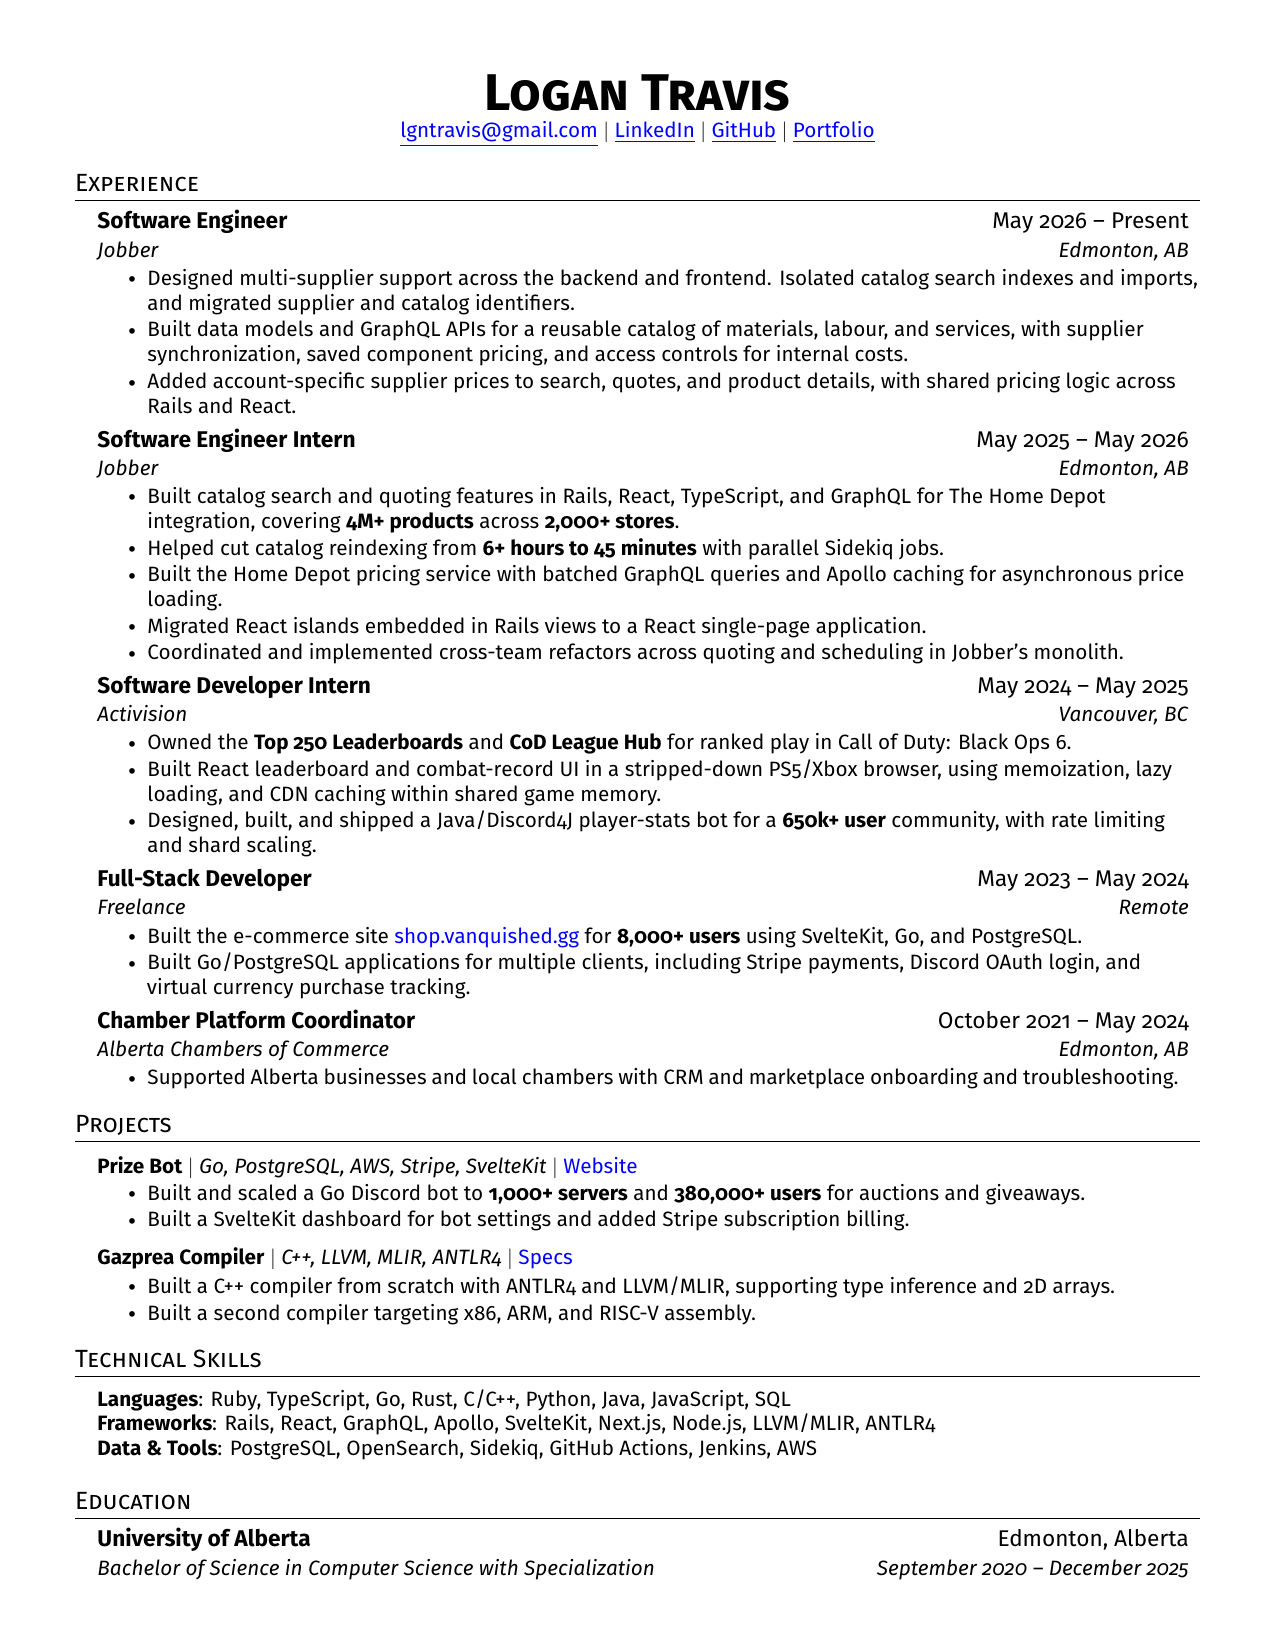
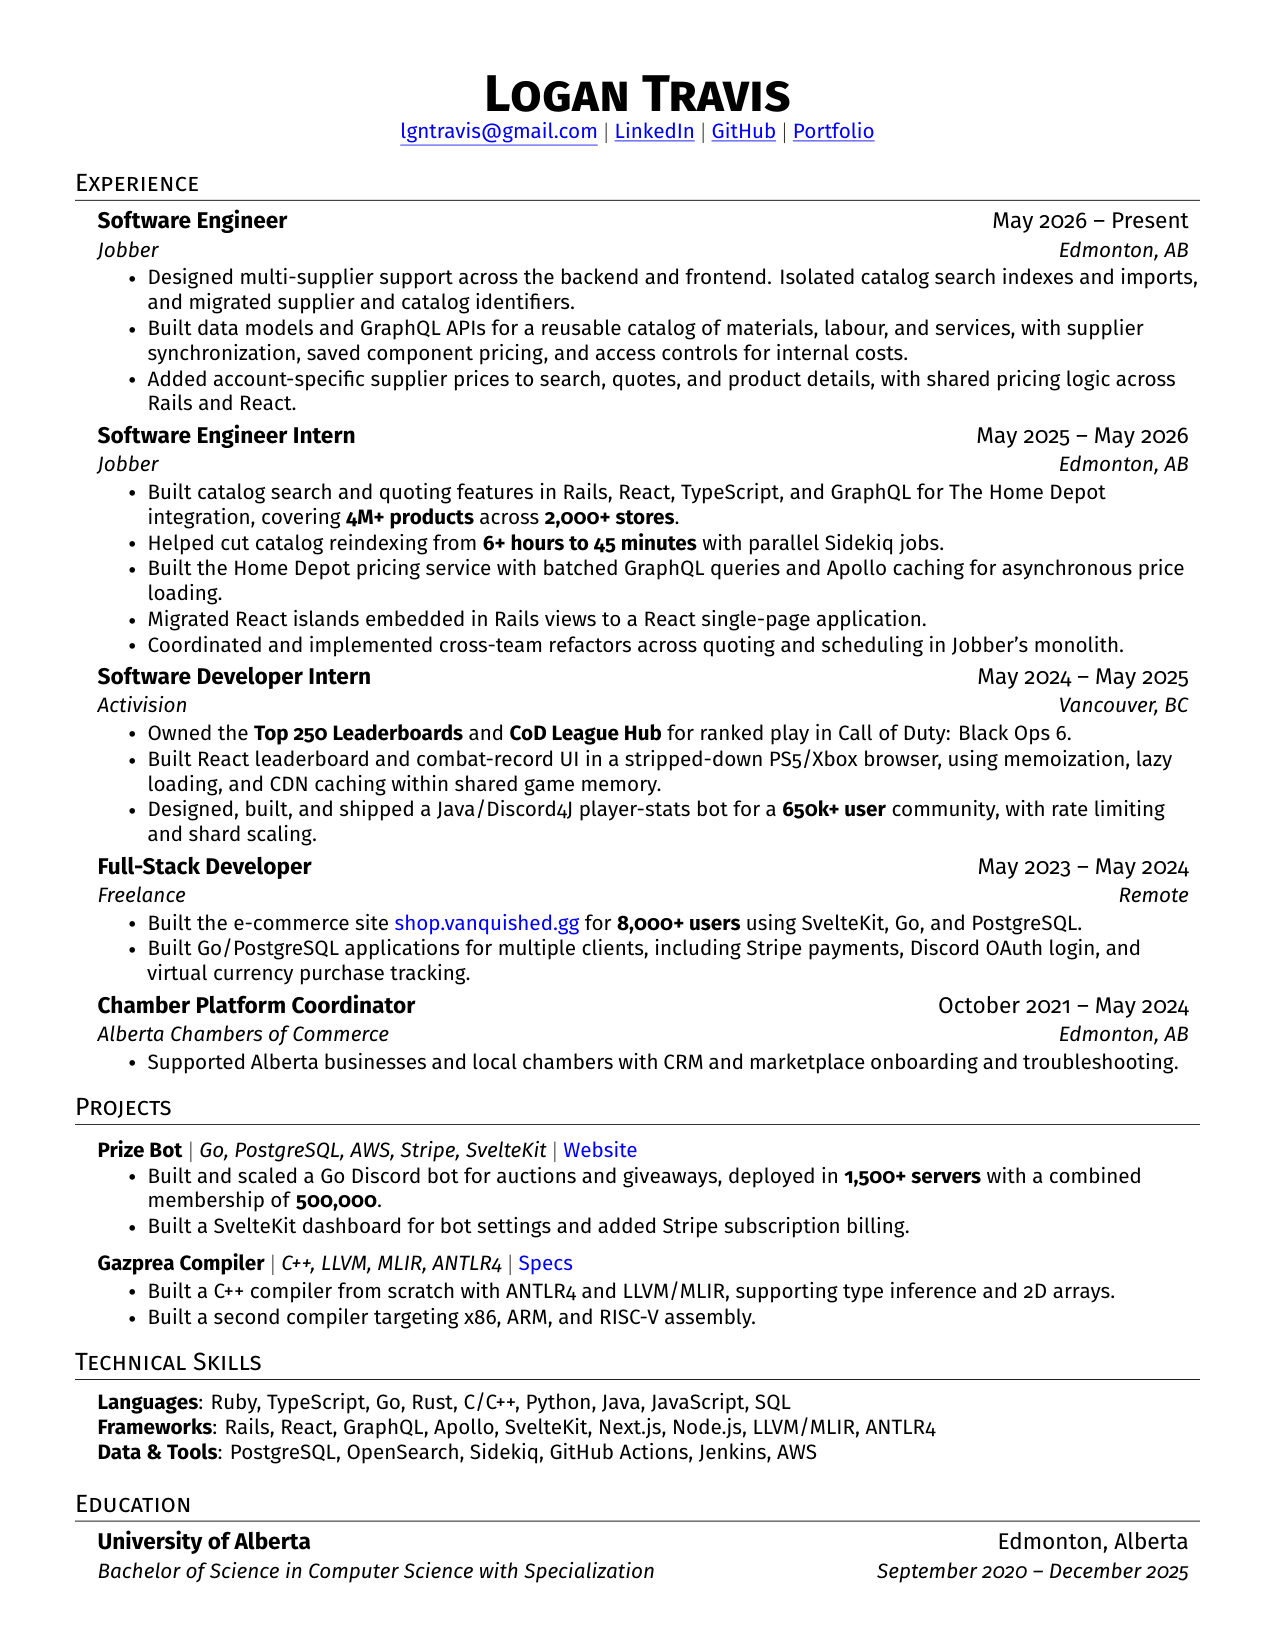
Update Prize Bot reach and clarify server membership metric

diff --git a/2-page/resume.tex b/2-page/resume.tex
@@ -230,7 +230,7 @@
 \resumeProjectHeading
 {\textbf{Prize Bot} $|$ \emph{Go, PostgreSQL, AWS, Stripe, SvelteKit} $|$ \href{https://www.prizebot.dev/}{Website}}{}
 \resumeItemListStart
-\resumeItem{Built and scaled a Go Discord bot to \textbf{1,000+ servers} and \textbf{380,000+ users}, with auctions, giveaways, and automated tickets for prize distribution.}
+\resumeItem{Built and scaled a Go Discord bot for auctions, giveaways, and automated prize-distribution tickets, deployed in \textbf{1,500+ servers} with a combined membership of \textbf{500,000}.}
 \resumeItem{Built a SvelteKit dashboard for configuring the bot.}
 \resumeItem{Added Stripe subscription billing and stored bot data in PostgreSQL.}
 \resumeItemListEnd

diff --git a/resume.tex b/resume.tex
@@ -198,7 +198,7 @@
 \resumeProjectHeading
 {\textbf{Prize Bot} $|$ \emph{Go, PostgreSQL, AWS, Stripe, SvelteKit} $|$ \href{https://www.prizebot.dev/}{Website}} {}
 \resumeItemListStart
-\resumeItem{Built and scaled a Go Discord bot to \textbf{1,000+ servers} and \textbf{380,000+ users} for auctions and giveaways.}
+\resumeItem{Built and scaled a Go Discord bot for auctions and giveaways, deployed in \textbf{1,500+ servers} with a combined membership of \textbf{500,000}.}
 \resumeItem{Built a SvelteKit dashboard for bot settings and added Stripe subscription billing.}
 \resumeItemListEnd
 
